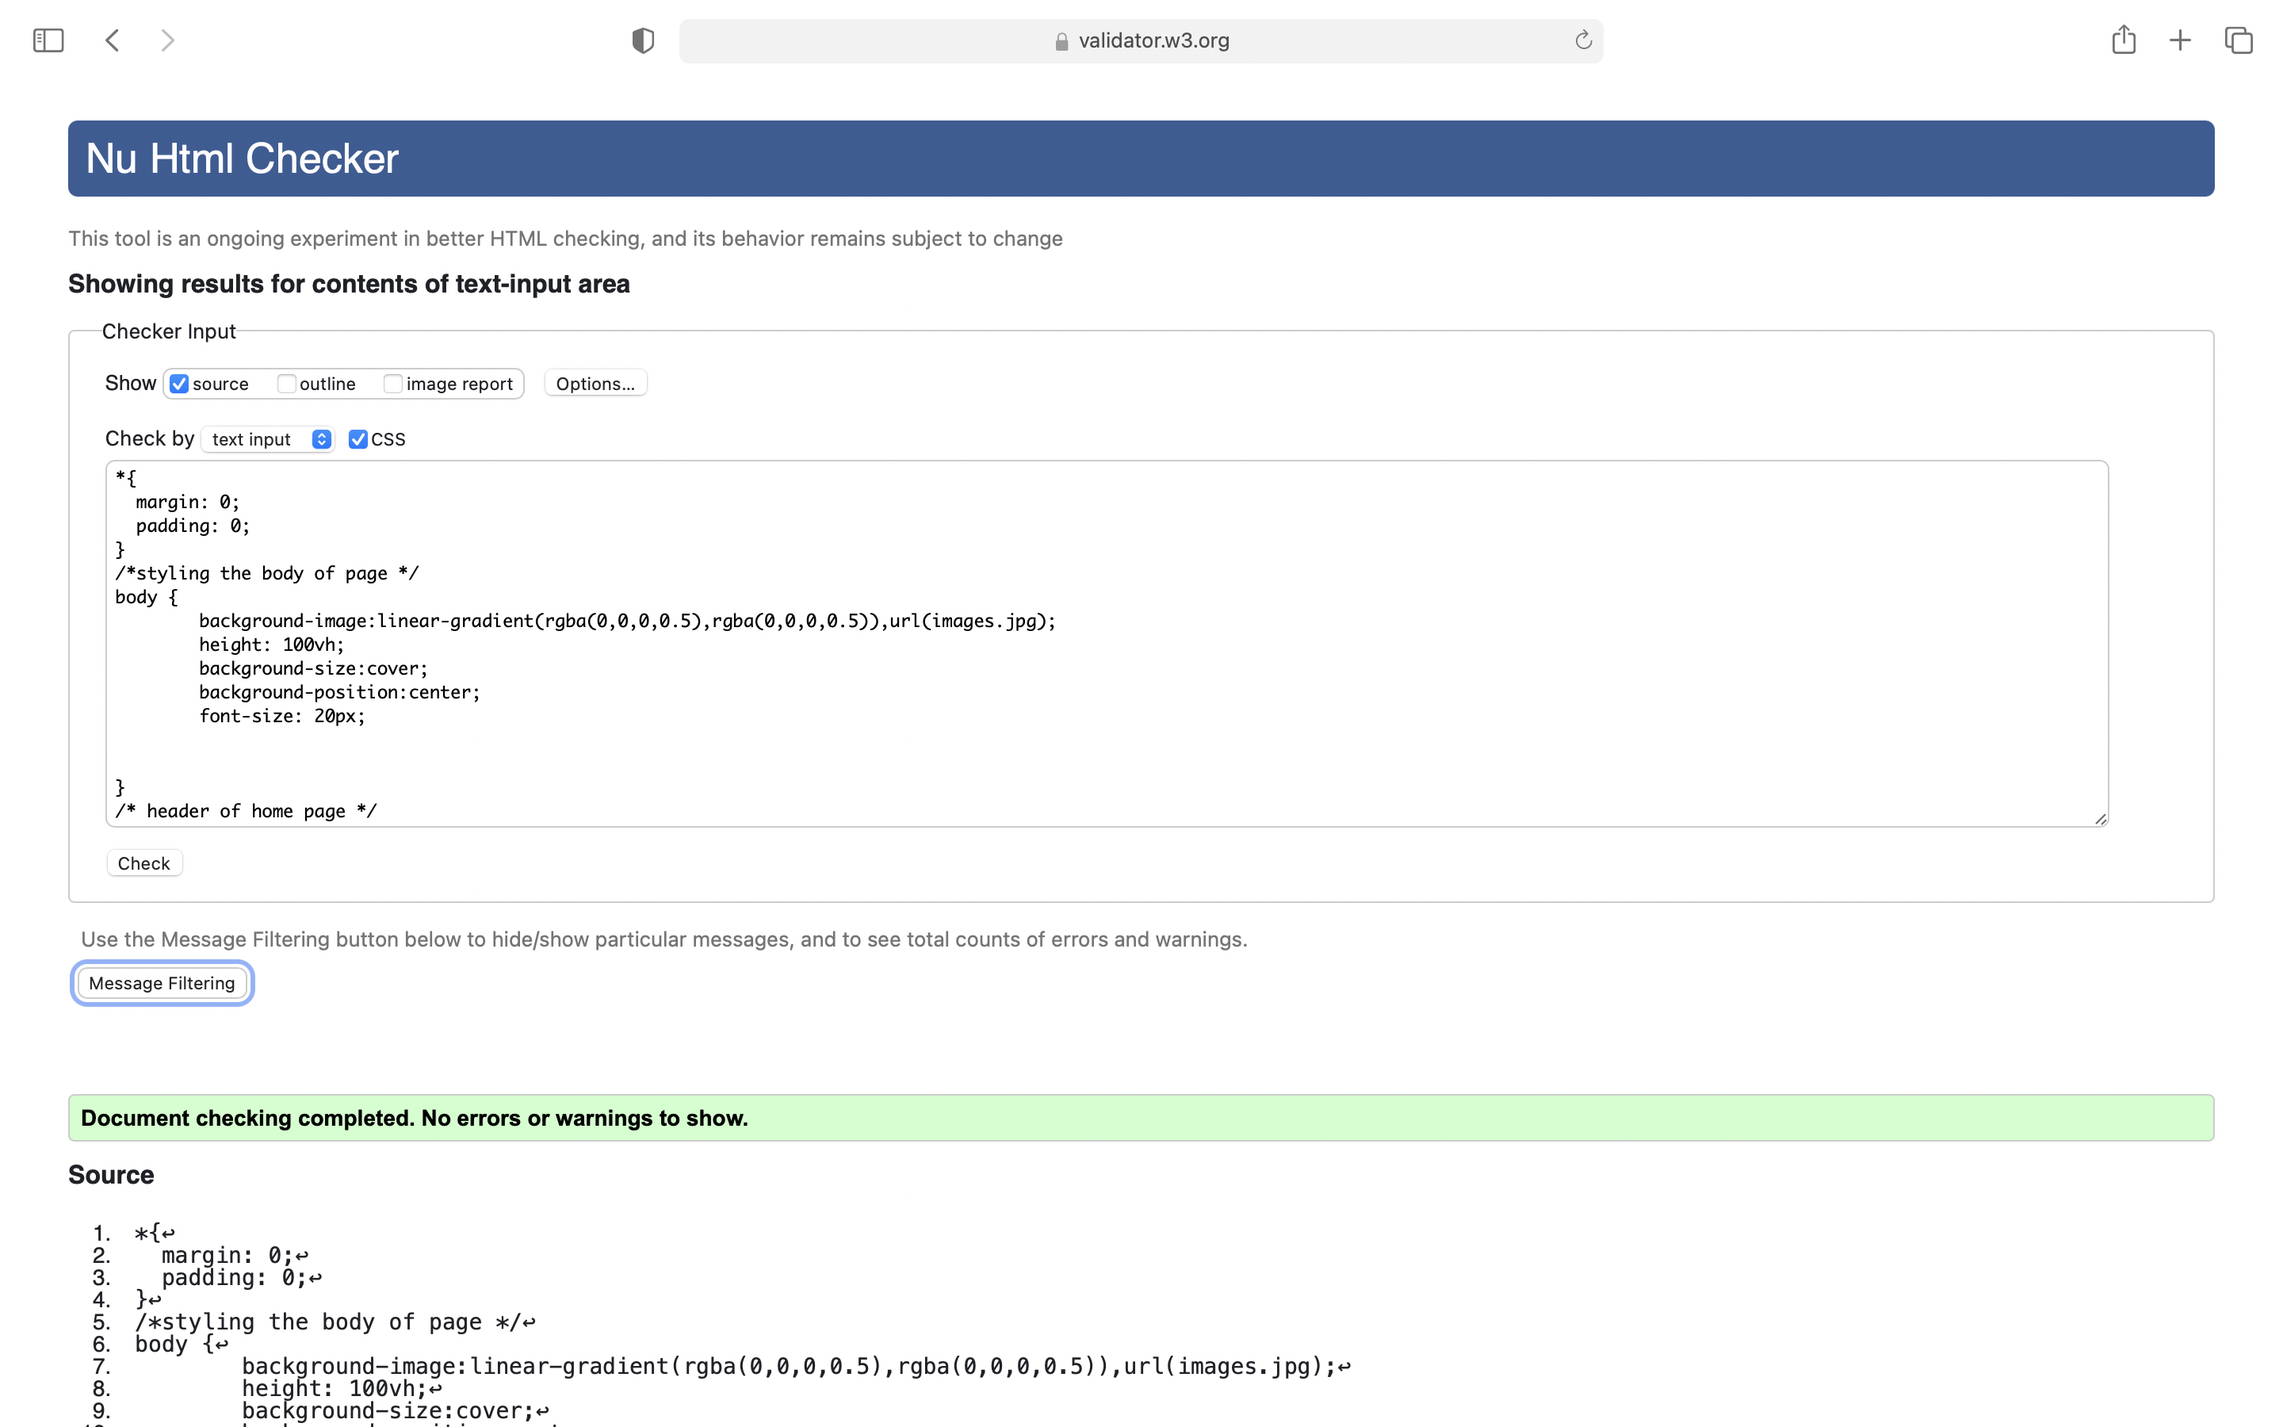
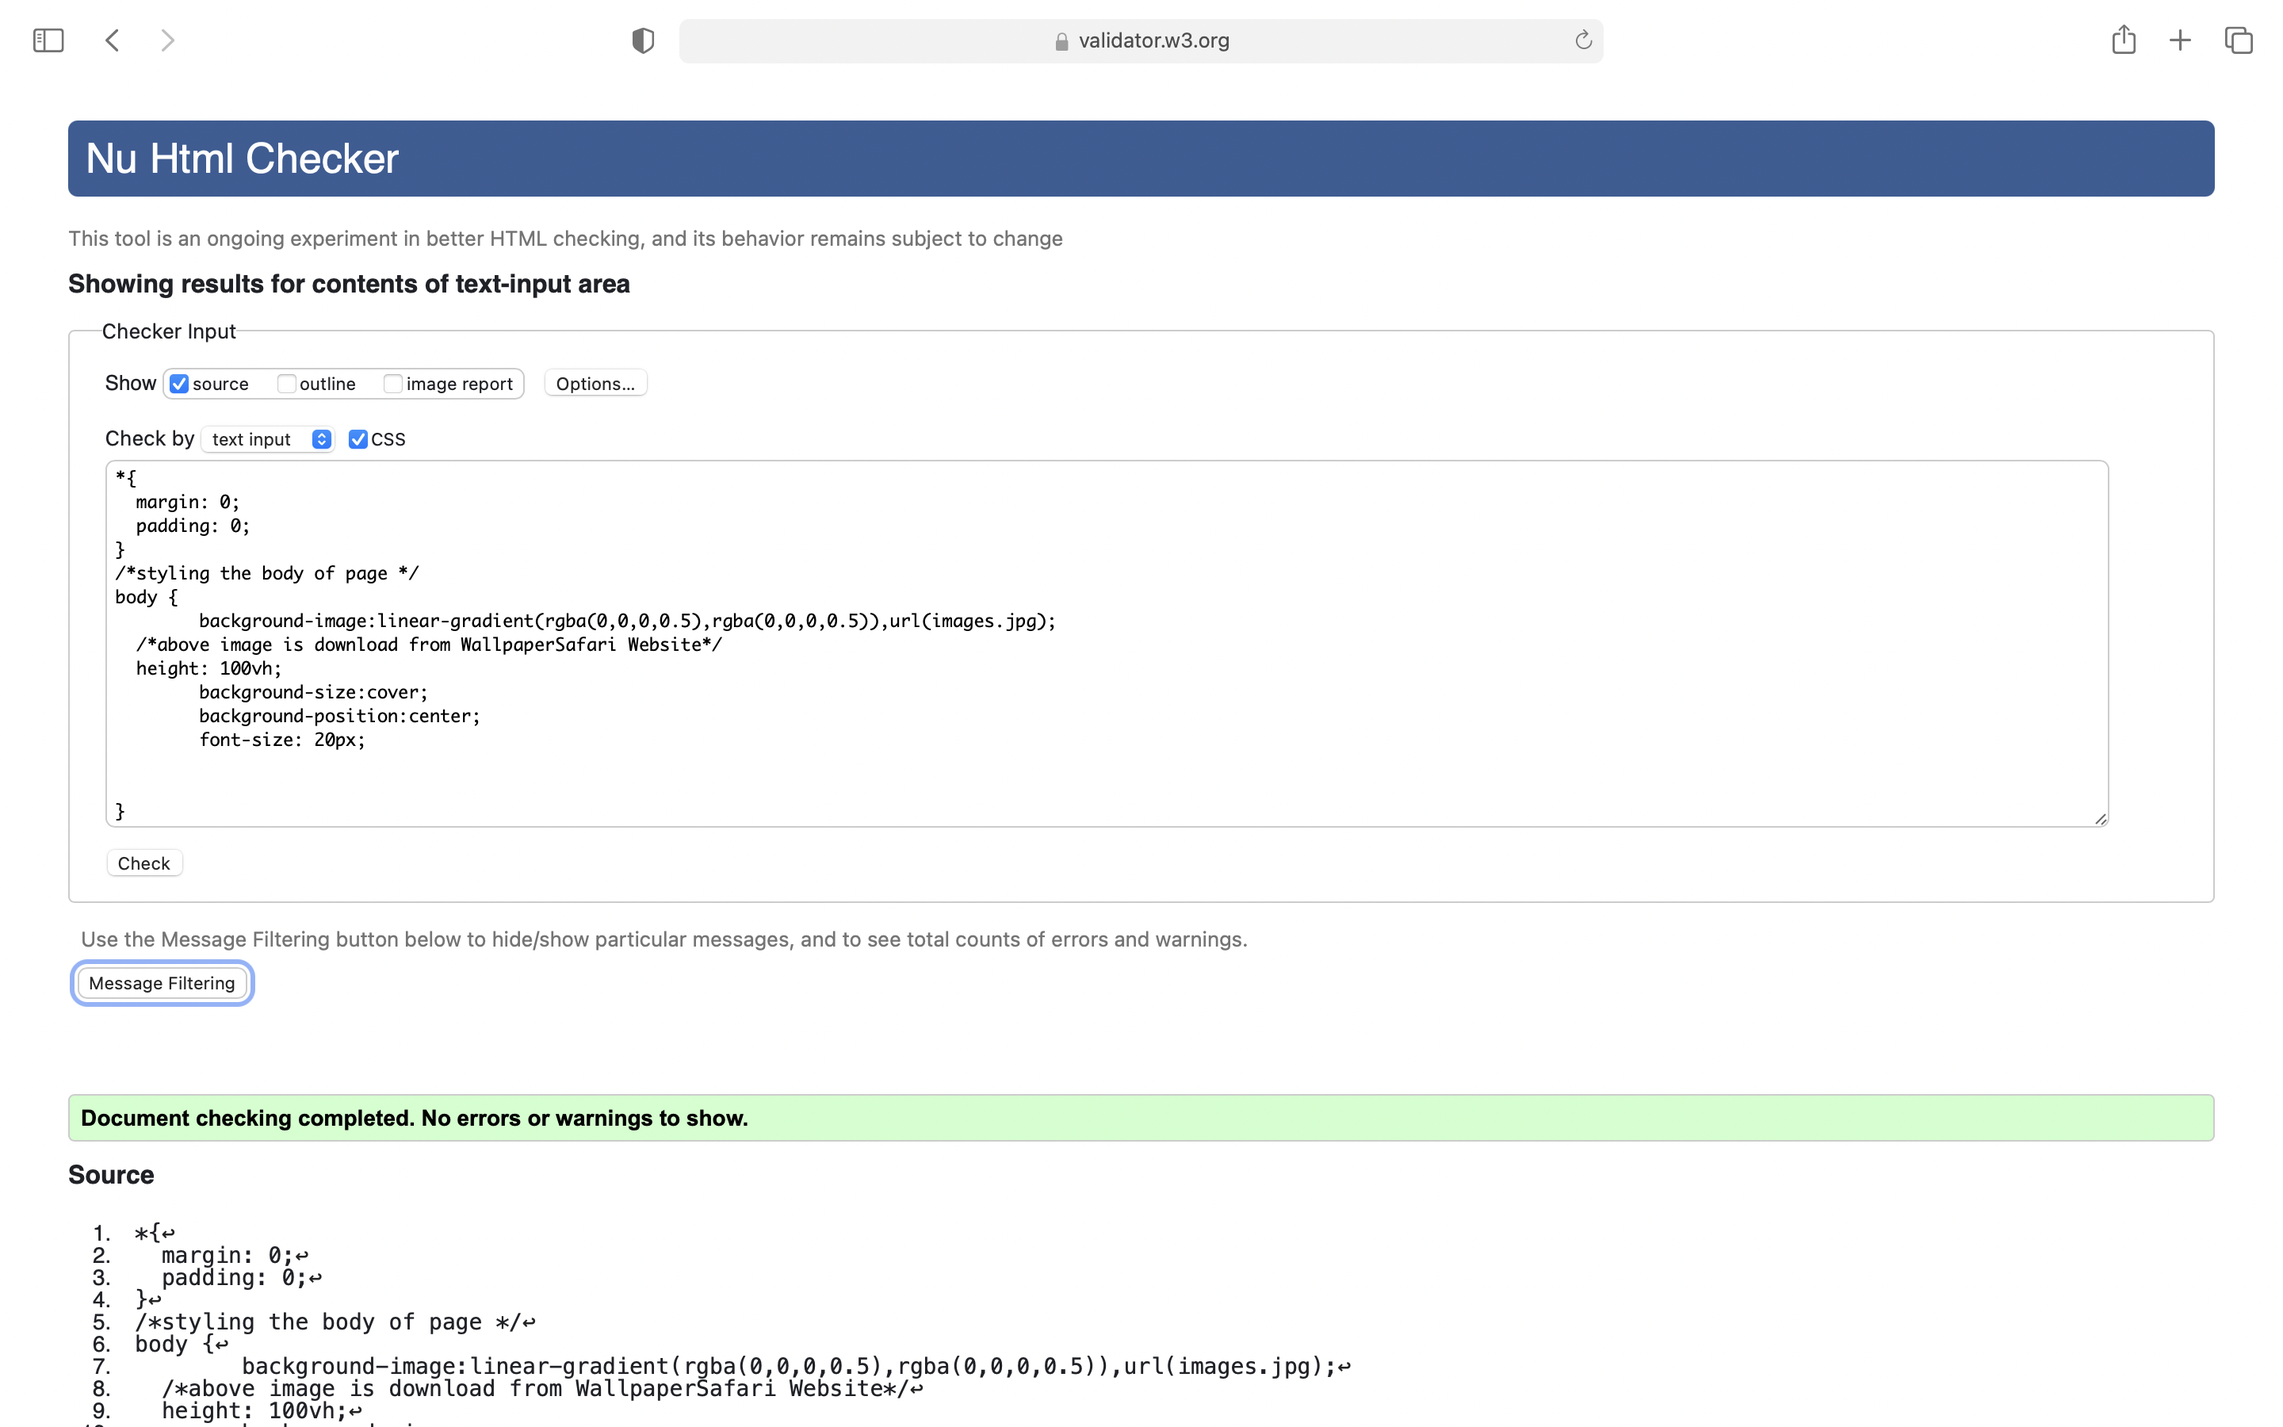
My Assignment

Changed region(s): [[0.0625, 0.4356, 0.3125, 0.5289], [0.0625, 0.9644, 0.4062, 0.9956], [0.0625, 0.56, 0.1562, 0.5911]]

diff --git a/sitereport.html b/sitereport.html
@@ -8,15 +8,16 @@
 		<header class="header">
           <a href="" class="logo">Sitereport. </a>
         <input class="menu-btn" type="checkbox" id="menu-btn" />
-         <label class="menu-icon" for="menu-btn"><span class="navicon"></span></label>
-            <ul class="menu"><!--this is the menu of report-->
+         <label class="menu-icon" for="menu-btn"><span class="navicon"></span></label><!--This code is use from codepen website-->
+            <ul class="menu"><!--This is the menu of report-->
           <li><a href="index.html">Home</a></li>
          <li><a href="portfolio.html">Portfolio </a></li>
          <li><a href="contact.html">Contact</a></li>
          <li><a href="cv.html">Cv</a></li>
         </ul>
       </header>
- </head>      
+ </head>
+ <body>      
 <section>           
 	<div class="TOPIC">
 		<h2>"Experience 0f Learning"</h2><!--Topic of report-->
@@ -37,28 +38,27 @@
       	  	Thank you.
       	  	 #staysafe
       	  </p>
-      	
-	</div>
 
 	<div class="referencing"><!--References of Webpage--> 
 		<h2>"References Of All Html Pages"</h2>
 		  <li > Home Page</li>
 		  <b>Reference:</b><!--Reference of home page--> 
-		  	<br> Background Image title:Creative Background Image For Website.<br>Source of Image:Background image downloaded from google.<br>Image Link:https://www.google.com/url?sa=i&url=https%3A%2F%2Fwww.wallpapertip.com%2Fwpic%2FbbboRw_website-design-background-creative-background-image-for-website%2F&psig=AOvVaw2qqXESziLCrXvqvDNI5hfw&ust=1622273324181000&source=images&cd=vfe&ved=0CAIQjRxqFwoTCJDSpaft6_ACFQAAAAAdAAAAABAD).<br>Concept of page:From youtube tutorial and  from module tutorial.<br>Tagline of page:From NIKE(1987)<br>Hamburger Icon code link:https://www.google.com/url?sa=t&rct=j&q=&esrc=s&source=web&cd=&ved=2ahUKEwiw-6vovPjwAhWbXisKHfSLDDkQFjAAegQIBRAD&url=https%3A%2F%2Fcodepen.io%2Fmutedblues%2Fpen%2FMmPNPG&usg=AOvVaw0bY7JoaoNR6dQUJffzfaXL<br>source:From google(Website:Codepen)<br>
+		  	<p> Background Image title: Creative Background Image For Website.<br>Source of Image: Background image downloaded from google.<br>Image Link: https://www.google.com/url?sa=i&url=https%3A%2F%2Fwww.wallpapertip.com%2Fwpic%2FbbboRw_website-design-background-creative-background-image-for-website%2F&psig=AOvVaw2qqXESziLCrXvqvDNI5hfw&ust=1622273324181000&source=images&cd=vfe&ved=0CAIQjRxqFwoTCJDSpaft6_ACFQAAAAAdAAAAABAD).<br><br>Concept of page:From youtube tutorial and  from module tutorial.<br>Tagline of page:From NIKE(1987).<br><br>Hamburger Icon code link:https://www.google.com/url?sa=t&rct=j&q=&esrc=s&source=web&cd=&ved=2ahUKEwiw-6vovPjwAhWbXisKHfSLDDkQFjAAegQIBRAD&url=https%3A%2F%2Fcodepen.io%2Fmutedblues%2Fpen%2FMmPNPG&usg=AOvVaw0bY7JoaoNR6dQUJffzfaXL.<br>source:From google(Website:Codepen)</p>
 		  <li>Portfolio Page</li>
         <b> Reference:</b><!--Reference of portfolio page--->
-           <br>Images title:shutterstock,what makes a good or showered in the creative industries.<br>Source of images:Those placeholder images are portfolio images  downloaded from google.<br> 
-           Images Link:https://www.google.com/url?sa=i&url=https%3A%2F%2Fwww.shutterstock.com%2Fsearch%2Fportfolio&psig=AOvVaw2EiwnNRLLYhjktLa3DAScV&ust=1622303171923000&source=images&cd=vfe&ved
-           =0CAIQjRxqFwoTCJDJgrTc7PACFQAAAAAdAAAAABAD (image1) ,https://www.google.com/url?sa=i&url=https%3A%2F%2Fmedium.com%2F%40l500019575%2Fwhat-makes-a-good-portfolio-or-showreel-in-the-creative-industries-fcce2b2c8dfe&psig=AOvVaw2EiwnNRLLYhjktLa3DAScV&ust=1622303171923000&source=images&cd=vfe&ved=0CAIQjRxqFwoTCJDJgrTc7PACFQAAAAAdAAAAABAI(image 2)<br>Concept of headline and page:(Effective code academy),Module lecture. Source: Youtube tutorial and module tutorial. <br>Hamburger icon code link:https://www.google.com/url?sa=t&rct=j&q=&esrc=s&source=web&cd=&ved=2ahUKEwiw-6vovPjwAhWbXisKHfSLDDkQFjAAegQIBRAD&url=https%3A%2F%2Fcodepen.io%2Fmutedblues%2Fpen%2FMmPNPG&usg=AOvVaw0bY7JoaoNR6dQUJffzfaXL<br>Source of icon:From google(Website:codepen)<br>
+           <p>Images title:shutterstock,what makes a good or showered in the creative industries.<br>Source of images:Those placeholder images are portfolio images  downloaded from google.<br> 
+           Images Link:https://www.google.com/url?sa=i&url=https%3A%2F%2Fwww.shutterstock.com%2Fsearch%2Fportfolio&psig=AOvVaw2EiwnNRLLYhjktLa3DAScV&ust=1622303171923000& source=images&cd=vfe&ved
+           =0CAIQjRxqFwoTCJDJgrTc7PACFQAAAAAdAAAAABAD (image1), https://www.google.com/url?sa=i&url=https%3A%2F%2Fmedium.com%2F%40l500019575%2Fwhat-makes-a-good-portfolio-or-showreel-in-the-creative-industries-fcce2b2c8dfe&psig=AOvVaw2EiwnNRLLYhjktLa3DAScV&ust=1622303171923000& source=images&cd=vfe&ved=0CAIQjRxqFwoTCJDJgrTc7PACFQAAAAAdAAAAABAI(image 2)<br><br>Concept of headline and page:(Effective code academy),Module lecture. Source: Youtube tutorial and module tutorial.<br> <br>Hamburger icon code link:https://www.google.com/url?sa=t&rct=j&q=&esrc=s&source=web&cd=&ved=2ahUKEwiw-6vovPjwAhWbXisKHfSLDDkQFjAAegQIBRAD&url=https%3A%2F%2Fcodepen.io%2Fmutedblues%2Fpen%2FMmPNPG&usg=AOvVaw0bY7JoaoNR6dQUJffzfaXL<br>Source of icon:From google(Website:codepen)</p>
         <li>Contact Us Page </li>
         <b> Reference:</b><!---Refernce of contact page-->
-          <br>  Background Image title:20,418  Contact Us Stock Photos & Royality-Free Images,Creator:utah778,Credit:Getty images istockphoto.<br>Source of Image:Contact Us image Downloaded from google.<br>Image link:https://www.google.com/url?sa=i&url=https%3A%2F%2Fwww.istockphoto.com%2Fphotos%2Fcontact-us&psig=AOvVaw3xxcTOBtWIvzbRIx3wzTXX&ust=1622273804527000&source=images&cd=vfe&ved=0CA0QjhxqFwoTCNDS54Tv6_ACFQAAAAAdAAAAABAE.<br>Concept of page:Coding market & Module lecture.Source:Module tutorial And Youtube tutorial.<br>Hamburger Icon code link:https://www.google.com/url?sa=t&rct=j&q=&esrc=s&source=web&cd=&ved=2ahUKEwiw-6vovPjwAhWbXisKHfSLDDkQFjAAegQIBRAD&url=https%3A%2F%2Fcodepen.io%2Fmutedblues%2Fpen%2FMmPNPG&usg=AOvVaw0bY7JoaoNR6dQUJffzfaXL<br>Source of icon code:Google(Website:codepen)<br>
+          <p>  Background Image title:20,418  Contact Us Stock Photos & Royality-Free Images,Creator:utah778,Credit:Getty images istockphoto.<br>Source of Image:Contact Us image Downloaded from google.<br>Image link:https://www.google.com/url?sa=i&url=https%3A%2F%2Fwww.istockphoto.com%2Fphotos%2Fcontact-us&psig=AOvVaw3xxcTOBtWIvzbRIx3wzTXX&ust=1622273804527000& source=images&cd=vfe&ved=0CA0QjhxqFwoTCNDS54Tv6_ACFQAAAAAdAAAAABAE.<br><br>Concept of page:Coding market & Module lecture.Source:Module tutorial And Youtube tutorial.<br><br>Hamburger Icon code link:https://www.google.com/url?sa=t&rct=j&q=&esrc=s& source=web&cd=&ved=2ahUKEwiw-6vovPjwAhWbXisKHfSLDDkQFjAAegQIBRAD&url=https%3A%2F%2Fcodepen.io%2Fmutedblues%2Fpen%2FMmPNPG&usg=AOvVaw0bY7JoaoNR6dQUJffzfaXL<br>Source of icon code:Google(Website:codepen)</p>
        <li>CV Page</li>
         <b>Reference:</b><!--Reference of cv page--> 
-          <br>Background Image title:Abstract Background Vector Graphic Free vector in Encapsuted.<br>Source of Image:abstract_background_vector_graphic_148408.<br> Image Link:https://www.google.com/url?sa=i&url=https%3A%2F%2Fall-free-download.com%2Ffree-vector%2Fdownload%2Fabstract-background-vector-graphic_148408.html&psig=AOvVaw0wrpkPec8SXR2TweFItQWX&ust=1622355299142000&source=images&cd=vfe&ved=0CAIQjRxqFwoTCIjqo8ye7vACFQAAAAAdAAAAABAD.<br> Concept of page: Module Lecture ,Module tutorial and from google.<br>Source code:https://www.patreon.com /online tutorials from youtube.<br> Hamburger icon code link:https:https://www.google.com/url?sa=t&rct=j&q=&esrc=s&source=web&cd=&ved=2ahUKEwiw-6vovPjwAhWbXisKHfSLDDkQFjAAegQIBRAD&url=https%3A%2F%2Fcodepen.io%2Fmutedblues%2Fpen%2FMmPNPG&usg=AOvVaw0bY7JoaoNR6dQUJffzfaXL<br>Source of code:Google(Website:codepen)<br>
+          <p>Background Image title:Abstract Background Vector Graphic Free vector in Encapsuted.<br>Source of Image:abstract_background_vector_graphic_148408.<br> Image Link:https://www.google.com/url?sa=i&url=https%3A%2F%2Fall-free-download.com%2Ffree-vector%2Fdownload%2Fabstract-background-vector-graphic_148408.html&psig=AOvVaw0wrpkPec8SXR2TweFItQWX&ust=1622355299142000& source=images&cd=vfe&ved=0CAIQjRxqFwoTCIjqo8ye7vACFQAAAAAdAAAAABAD.<br><br> Concept of page: Module Lecture ,Module tutorial and from google.<br>Source code:https://www.patreon.com /online tutorials from youtube.<br><br>Hamburger icon code link:https:https://www.google.com/url?sa=t&rct=j&q=&esrc=s&source=web&cd=&ved=2ahUKEwiw-6vovPjwAhWbXisKHfSLDDkQFjAAegQIBRAD&url=https%3A%2F%2Fcodepen.io%2Fmutedblues%2Fpen%2FMmPNPG&usg=AOvVaw0bY7JoaoNR6dQUJffzfaXL<br>Source of code:Google(Website:codepen)</p>
         <li>Sitereport Page</li>
         <b>Reference:</b><!--reference of sitereport-->
-           <br>Source:Module Tutorial.<br>Concept of page:MeMyself<br>Hamburger icon code link:https://www.google.com/url?sa=t&rct=j&q=&esrc=s&source=web&cd=&ved=2ahUKEwiw-6vovPjwAhWbXisKHfSLDDkQFjAAegQIBRAD&url=https%3A%2F%2Fcodepen.io%2Fmutedblues%2Fpen%2FMmPNPG&usg=AOvVaw0bY7JoaoNR6dQUJffzfaXL<br>Source of code:Google(website:Codepen)<br>
+           <p>Source:Module Tutorial.<br>Concept of page:MeMyself<br><br>Hamburger icon code link:https://www.google.com/url?sa=t&rct=j&q=&esrc=s&source=web&cd=&ved=2ahUKEwiw-6vovPjwAhWbXisKHfSLDDkQFjAAegQIBRAD&url=https%3A%2F%2Fcodepen.io%2Fmutedblues%2Fpen%2FMmPNPG&usg=AOvVaw0bY7JoaoNR6dQUJffzfaXL<br>Source of code:Google(website:Codepen)</p>
+
 </div>
  <div class="validation"><!--validation of html pages-->
  	<h2>"Validation of HTML Pages and CSS"</h2>
@@ -70,7 +70,7 @@
        <img src="pohtml.png" alt="validation" style="width: 40%;"/>
  	    <img src="pocss.png" alt="validation" style="width: 40%;"/>
 
-   <li>Contact Html and css</li>
+   <li>Contact Html and Css</li>
        <img src="cohtml.png" alt="validation" style="width: 40%;"/>
  	    <img src="cocss.png" alt="validation" style="width: 40%;"/>
 

diff --git a/portfolio.html b/portfolio.html
@@ -6,10 +6,11 @@
 	<link rel="stylesheet"  type="text/css" href="por.css">
 </head>
 <body>
+
 	<header class="header"><!--This is the header of page-->
           <a href="" class="logo">Portfolio. </a>
         <input class="menu-btn" type="checkbox" id="menu-btn" />
-         <label class="menu-icon" for="menu-btn"><span class="navicon"></span></label>
+         <label class="menu-icon" for="menu-btn"><span class="navicon"></span></label><!--This code are use from codepen website-->
             <ul class="menu"><!--Menu of page-->
          <li><a href="index.html">Home </a></li>
          <li><a href="contact.html">Contact</a></li>
@@ -21,8 +22,8 @@
 		<P>These images are for placeholder purposes only,when I do my asssignment in term (II), This will be replaced.</P>
     </div>
     <div class="flex"><!--These are dummy images-->
-    	<img src="port.webp" alt="placeholder1 lul" class="size">
-    	<img src="folio.jpg" alt="placeholder2 lul"  class="size">
+    	<img src="port.webp" alt="placeholder1 lul" class="size"><!--This image is download from shutterstock.com-->
+    	<img src="folio.jpg" alt="placeholder2 lul"  class="size"><!--This image is download from blog.accolades.dev-->
     </div>
 </body>
 </html>

diff --git a/contact.html b/contact.html
@@ -9,8 +9,8 @@
         <header class="header"><!--Header of the page-->
          <a href="" class="logo">Contact. </a>
         <input class="menu-btn" type="checkbox" id="menu-btn" />
-         <label class="menu-icon" for="menu-btn"><span class="navicon"></span></label>
-            <ul class="menu"><!--menu of the page-->
+         <label class="menu-icon" for="menu-btn"><span class="navicon"></span></label><!--This code is use from codepen website-->
+            <ul class="menu"><!--Menu of the page-->
          <li><a href="index.html">Home </a></li>
          <li><a href="portfolio.html">Portfolio</a></li>
           <li><a href="cv.html">Cv</a></li>

diff --git a/cv.html b/cv.html
@@ -5,11 +5,12 @@
 	<title>CV page</title>
 	<link rel="stylesheet" type="text/css" href="design.css">
 </head>  
-<body>
+<body>  
+         <!--Menu of page-->
           <header class="header">
           <a href="" class="logo">Cv. </a>
         <input class="menu-btn" type="checkbox" id="menu-btn" />
-         <label class="menu-icon" for="menu-btn"><span class="navicon"></span></label>
+         <label class="menu-icon" for="menu-btn"><span class="navicon"></span></label><!--This code is use from codepen website-->
             <ul class="menu">
           <li><a href="index.html">Home</a></li>
          <li><a href="portfolio.html">Portfolio </a></li>

diff --git a/index.html b/index.html
@@ -11,7 +11,7 @@
         <header class="header">
           <a href="" class="logo">Home. </a>
         <input class="menu-btn" type="checkbox" id="menu-btn" />
-         <label class="menu-icon" for="menu-btn"><span class="navicon"></span></label>
+         <label class="menu-icon" for="menu-btn"><span class="navicon"></span></label><!--This code are use from codepen website-->
             <ul class="menu"><!--This is the menu of page-->
          <li><a href="portfolio.html">Portfolio </a></li>
          <li><a href="contact.html">Contact</a></li>

diff --git a/repo.css b/repo.css
@@ -6,7 +6,7 @@
 /*styling body of page*/ 
 body{
 	background-color:palevioletred;
-	font:lighter;
+	
 }
 /*header of home page*/
 .header {
@@ -154,7 +154,10 @@ section{
 	color: black;
 	font-size: 40px;
 }
+#referencing{
+  margin-right: 10%;
 
+}
 h2{
 	margin-left: 30%;
 	margin-right: 30%;
@@ -165,13 +168,12 @@ p{
 
 }/* font size and style is given*/
 li{
-	font-size: 30px;
+	font-size: 35px;
 }
 b{
 	font-size: 25px;
 }
 br{
 	font-size: 20px;
-	margin-right: 5%;
 
 }

diff --git a/assign.css b/assign.css
@@ -5,13 +5,15 @@
 /*styling the body of page */
 body {
 	background-image:linear-gradient(rgba(0,0,0,0.5),rgba(0,0,0,0.5)),url(images.jpg);
-	height: 100vh;
+  /*above image is download from WallpaperSafari Website*/
+  height: 100vh;
 	background-size:cover;
 	background-position:center;
 	font-size: 20px;
 
 	
 }
+/*below menu code are use from google website Codepen*/
 /* header of home page */
 .header {
   background-color: grey;

diff --git a/style.css b/style.css
@@ -6,6 +6,7 @@
 /*styling body*/ 
 body{
 	background-image:url(contact.jpg);
+  /*above image is download from iStock Website*/
 	height: 100vh;
 	background-size: cover;
 	background-position: center;
@@ -13,7 +14,7 @@ body{
 }
 
 /* header of home page */
-
+/*below icon code is use from Codepen website*/
 .header {
   background-color: grey;
   width: 100%;

diff --git a/design.css b/design.css
@@ -11,7 +11,7 @@ body{
 }
 
 /* header of home page */
-
+/*below icon code are use from Codepen google website*/
 .header {
   background-color: dimgrey;
    width: 100%;

diff --git a/por.css b/por.css
@@ -10,7 +10,7 @@ body{
 
 
 /* header of home page */
-
+/*below code of icon is use from Codepen website*/
 .header {
   background-color: grey;
   width: 100%;
